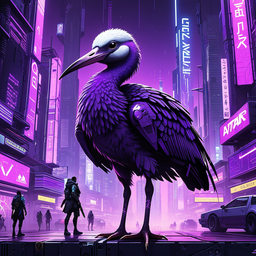
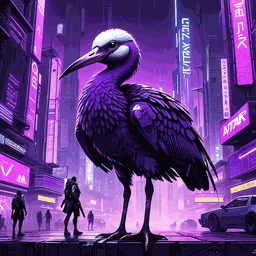
client: 665KB off every cold load, stop the composer blurring a live feed, hide replies
Three things, two of them straight from a user report.

IMAGES — 833KB -> 168KB (80%), on every cold load, worst on the phones that can least afford it:
- favicon.png was 512x896 and 225KB, downloaded in full to draw a 16px browser-tab icon.
- posterchan-relay.png was 512x768 and 480KB. It is not just the sidebar logo: app.js uses it as
  LOGO, the FALLBACK AVATAR behind every broken profile picture, so half a megabyte was loading to
  fill a 28px circle.
Resized to 3x their largest rendered size, aspect ratio untouched so nothing looks different, then
palette-quantised with a measured guard rather than an eyeball — RMS error per pixel is printed and
the truecolour version is kept unless the quantised one is both smaller and under 6/255 (logo 4.15,
ostrich 5.68). Verified by rendering the sidebar at 2x: no banding.

"It gets laggy when I have an open window like the one used to write this message." The ≤820px rule
that drops backdrop-filter covers `.glass` but NOT `.modal-bg`, so on a phone every open sheet kept
a full-screen blur(4px) over the LIVE timeline — and the feed behind it goes on receiving posts,
each insert forcing the whole viewport to re-blur. The scrim is already 72% opaque; the blur was
buying nothing behind it.

"Wish I could hide replies in Home" — done for EVERY timeline, not just Home. A reply in a firehose
is one half of a conversation you cannot see, and on a busy follow list they crowd out the posts.
[…]

diff --git a/static/js/client/app.js b/static/js/client/app.js
@@ -2510,7 +2510,15 @@
   }
   let _liveSince = 0;   // sub start time — only events at/after this are "live" (prependable as new)
   function renderTimeline(view, reset){
-    const fn = view==='home' ? (ev=>FOLLOWS.has(ev.pubkey)) : null;
+    // Hide replies, on EVERY timeline. A reply reads as an orphan in a firehose — you get one side of
+    // a conversation whose other half you cannot see — and on a busy follow list they crowd out the
+    // posts. Read once per render and folded into the SAME predicate the live-prepend path uses
+    // (_bufferLive(ev, fn)), so a reply cannot slip in through the live socket after the first draw.
+    const _hideR = ClientSettings.get('hideReplies', false);
+    const _follows = view==='home' ? (ev=>FOLLOWS.has(ev.pubkey)) : null;
+    const fn = (_follows || _hideR)
+      ? (ev => (!_follows || _follows(ev)) && !(_hideR && ev.kind===1 && isReply(ev)))
+      : null;
     if(reset){ _tl = { oldest:0, loading:false, done:false, pages:0, eosed:false }; _resetLive(); _liveSince = Math.floor(Date.now()/1000); }
     _drawTimeline(false);
     if (subs[view]) Relay.close(subs[view]);
@@ -9936,6 +9944,13 @@
         if(AUTO_NEW_POSTS){ const feed=$('#feed');
           if(feed && (VIEW==='home'||VIEW==='global') && _livePending.length && feed.scrollTop <= _LIVE_READ_PX) _flushPending(); }
       }
+      // Re-render on restore: `fn` is captured when a timeline draws, so adopting the synced value
+      // without redrawing would leave the feed showing whatever the previous setting produced.
+      if(!_prefTouched.has('hideReplies') && typeof pr.hideReplies==='boolean'
+         && pr.hideReplies!==ClientSettings.get('hideReplies', false)){
+        ClientSettings.set('hideReplies', pr.hideReplies);
+        if(VIEW==='home'||VIEW==='global'){ try{ renderView(true); }catch(_){} }
+      }
       if(!_prefTouched.has('vimKeys') && typeof pr.vimKeys==='boolean') ClientSettings.set('vimKeys', pr.vimKeys);
       if(!_prefTouched.has('xmrTip') && pr.xmrTip!=null && String(pr.xmrTip)) ClientSettings.set('xmrLastAmt', String(pr.xmrTip));
       if(!_prefTouched.has('bchTip') && pr.bchTip!=null && String(pr.bchTip)) ClientSettings.set('bchLastAmt', String(pr.bchTip));
@@ -15283,6 +15298,7 @@
           <label class="fld" style="flex-direction:row;justify-content:space-between;align-items:center">📉 Data saver<label class="switch"><input type="checkbox" id="set-no-images" ${NO_IMAGES?'checked':''}><span class="slider"></span></label></label>
           <div class="muted small">Holds images &amp; videos until you tap them, skips link previews, and loads lighter feed pages — turn it on when you're low on data. Syncs across your devices.</div>
           <label class="fld" style="flex-direction:row;justify-content:space-between;align-items:center">🆕 Auto-show new posts<label class="switch"><input type="checkbox" id="set-auto-new-posts" ${AUTO_NEW_POSTS?'checked':''}><span class="slider"></span></label></label>
+          <label class="fld" style="flex-direction:row;justify-content:space-between;align-items:center">Hide replies in timelines<label class="switch"><input type="checkbox" id="set-hide-replies" ${ClientSettings.get('hideReplies',false)?'checked':''}><span class="slider"></span></label></label>
           <div class="muted small">On, new notes appear at the top of Home / Nostrverse as they arrive. Off, they wait behind a <b>↑ N new posts</b> button and only appear when you tap it — so the timeline never moves under you. Syncs across your devices.</div>
           <label class="fld" style="flex-direction:row;justify-content:space-between;align-items:center" title="h j k l to move, gg / G for top and bottom. h and l cross between the nav rail, the feed and notifications.">⌨ Vim keys<label class="switch"><input type="checkbox" id="set-vim" ${ClientSettings.get('vimKeys',false)?'checked':''}><span class="slider"></span></label></label>
           <div class="muted small"><code>h j k l</code> to move, <code>gg</code> / <code>G</code> for top and bottom. <code>h</code> and <code>l</code> also cross between the nav rail, the feed and notifications. While on, <code>l</code> is movement, so React is <code>f</code> — <code>Alt</code>+<code>L</code> always works either way. Syncs across your devices.</div>
@@ -15510,6 +15526,13 @@
       }; }
     // Auto-show new posts: persist + sync to Nostr. Turning it ON adopts whatever is already buffered
     // (the pill would otherwise sit there until the next live note); turning it OFF leaves the feed as-is.
+    { const hr=$('#set-hide-replies'); if(hr) hr.onchange=()=>{
+        ClientSettings.set('hideReplies', hr.checked);
+        _prefTouched.add('hideReplies'); saveClientPrefsNostr({ hideReplies: hr.checked });
+        toast(hr.checked?'replies hidden in timelines':'replies shown in timelines');
+        // `fn` is captured when a timeline renders, so the change only takes effect on a re-render.
+        if(VIEW==='home'||VIEW==='global') renderView(true);
+      }; }
     { const an=$('#set-auto-new-posts'); if(an) an.onchange=()=>{
         AUTO_NEW_POSTS = an.checked; ClientSettings.set('autoNewPosts', AUTO_NEW_POSTS);
         _prefTouched.add('autoNewPosts'); saveClientPrefsNostr({ autoNewPosts: AUTO_NEW_POSTS });

diff --git a/static/css/client.css b/static/css/client.css
@@ -482,6 +482,12 @@ body.anim-off *, body.anim-off *::before, body.anim-off *::after{ animation-play
 @media(max-width:820px){
   .city-far,.city-mid,.city-near,.city-bg::before{ animation: none !important; }
   .glass{ backdrop-filter: none; -webkit-backdrop-filter: none; }
+  /* .modal-bg was NOT covered by the .glass rule above, so on a phone every open sheet — the composer
+     most of all — kept a full-screen blur(4px) over the LIVE timeline. The feed behind it goes on
+     receiving and inserting posts, and each insert forces the backdrop to re-blur the whole viewport.
+     Reported as "it gets laggy when I have an open window like the one used to write this message".
+     The scrim's own 72%-opaque fill already hides what is behind it; the blur was buying nothing. */
+  .modal-bg,.news-modal-bg{ backdrop-filter: none; -webkit-backdrop-filter: none; }
 }
 .neon-border{box-shadow:0 0 0 1px rgba(var(--accent-rgb),.35),0 0 30px rgba(var(--accent-rgb),.2) inset}
 

diff --git a/static/js/client/sw.js b/static/js/client/sw.js
@@ -9,7 +9,7 @@
  * cross-origin response, whose status is masked to 0, so an avatar host's 404/blip would be stored as
  * "valid" and served forever, breaking that avatar on every later view (the "no avatars" bug). Opaque
  * third-party avatars still load fresh via the browser's own HTTP cache, which already dedupes them. */
-const CACHE = 'pc-nostr-v680';
+const CACHE = 'pc-nostr-v681';
 const MEDIA_CACHE = 'pc-media-v2';        // bump → drops the old (possibly poisoned) media cache on activate
 const SHARE_CACHE = 'pc-share-v1';        // temporary stash for a file/text shared IN via the OS share sheet
 const MEDIA_MAX = 10000;                  // high entry cap (Cache.keys() is insertion-ordered → evict oldest);
